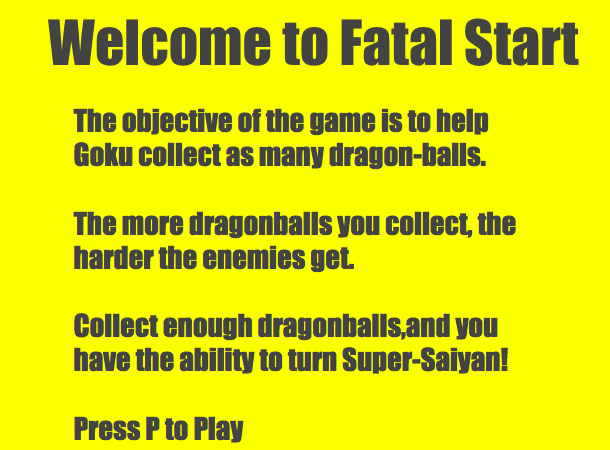
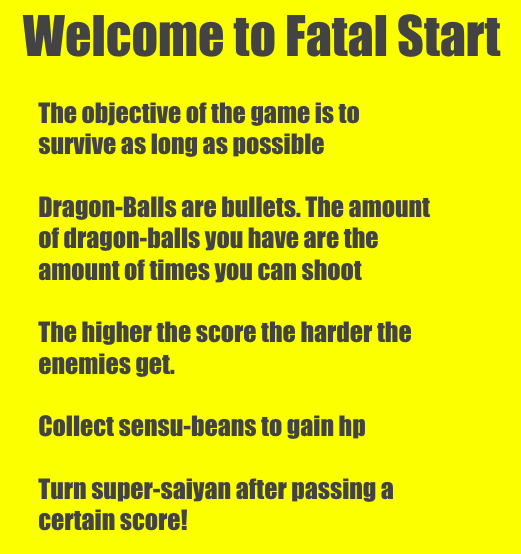
Edit modal

diff --git a/application/javascript/bundle.js b/application/javascript/bundle.js
@@ -1319,8 +1319,8 @@ class Instructions {
       // ctx.fillText('Welcome To Fatal Start', 300,60);
       // ctx.strokeText('asasdsad', 300, 100);
       this.ctx.fillRect(0,0,900,600);
-      this.ctx.drawImage(this.text, -15, 10);
-      this.ctx.drawImage(this.image, 310, 10);
+      this.ctx.drawImage(this.text, 10, 10);
+      this.ctx.drawImage(this.image, 300, 10);
 
   }
 

diff --git a/lib/instructions.js b/lib/instructions.js
@@ -29,8 +29,8 @@ class Instructions {
       // ctx.fillText('Welcome To Fatal Start', 300,60);
       // ctx.strokeText('asasdsad', 300, 100);
       this.ctx.fillRect(0,0,900,600);
-      this.ctx.drawImage(this.text, -15, 10);
-      this.ctx.drawImage(this.image, 310, 10);
+      this.ctx.drawImage(this.text, 10, 10);
+      this.ctx.drawImage(this.image, 300, 10);
 
   }
 

diff --git a/index.html b/index.html
@@ -26,7 +26,7 @@
   <!-- Modal content -->
   <div class="modal-content">
     <span class="close">&times;</span>
-    <img src='assets/intro123.png'
+    <img src='assets/final_intro_text.png'
       <div class=-'modal-text'>
       </div>
   </div>
